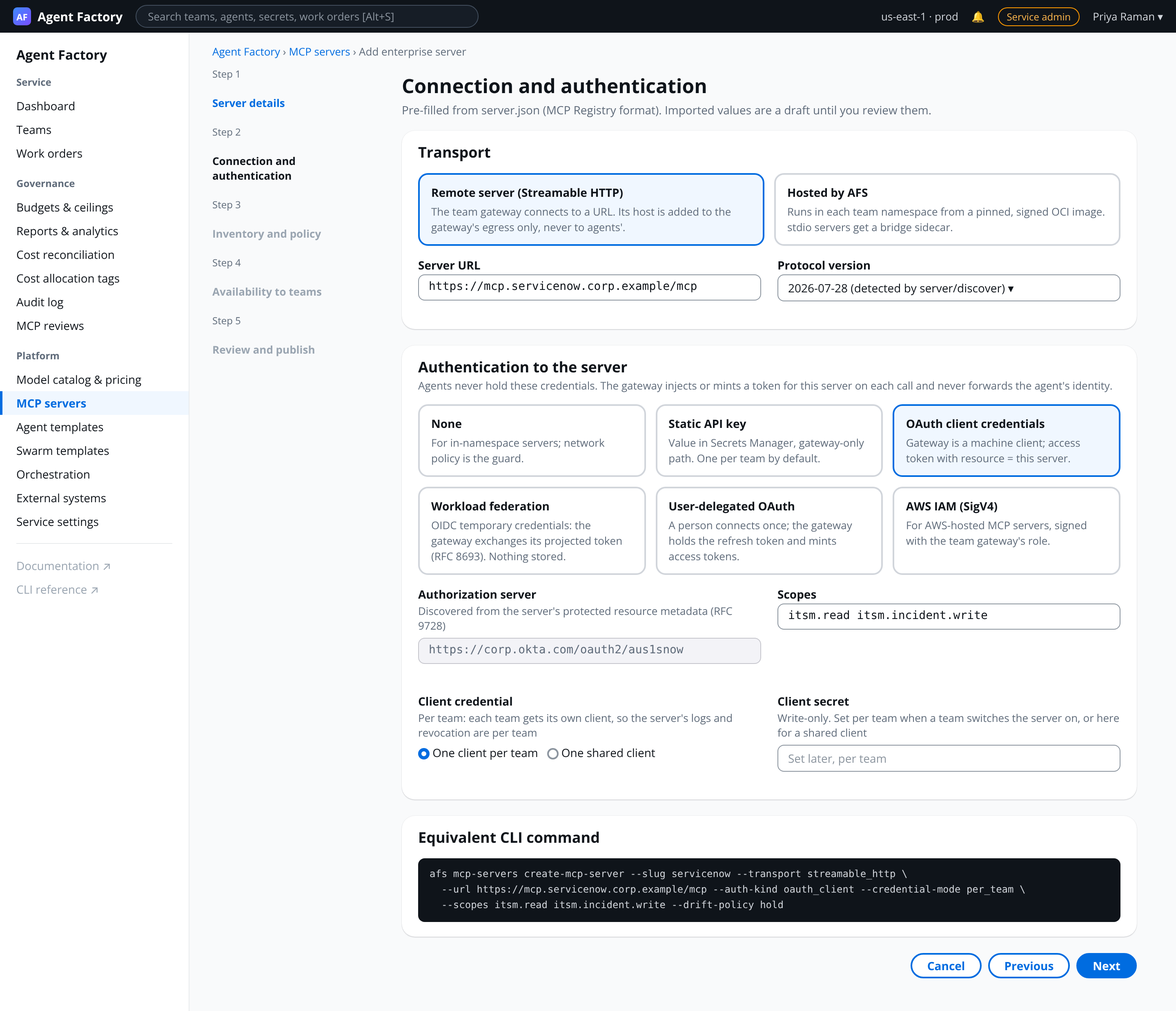
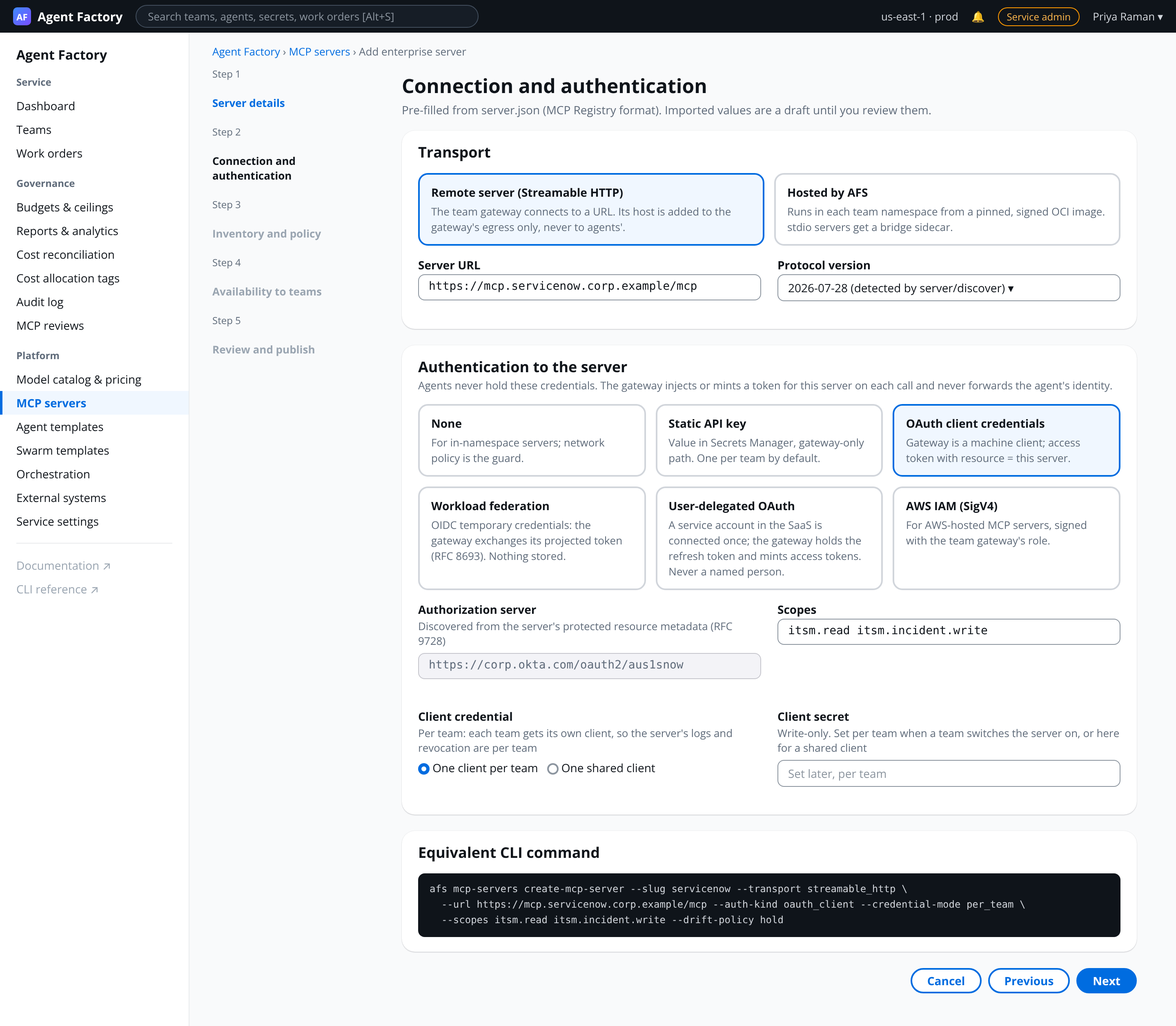
Record J's answers to the MCP gateway open questions
MCP ships in 1.3.0 on the 1.2.0 team gateway; enterprise servers opt-in with a
default-for-new-teams flag; team server approval is a three-level service policy
(team approves all by default); user-delegated OAuth uses service accounts only;
per-agent OIDC tokens ship with MCP; no content capture except an audited
query-text window; per-server drift setting. Mockups 48 and 49 updated.

Claude-Session: https://claude.ai/code/session_01ScLWHG5Qq2z3MiPnHXEhVF

diff --git a/docs/ui/source/49-so-mcp-review.html b/docs/ui/source/49-so-mcp-review.html
@@ -188,7 +188,7 @@ tr.sel td:first-child{box-shadow:inset 2px 0 0 var(--blue)}
 <div class="check"><span class="st ok"></span><span>Data classification Confidential ≤ team ceiling Confidential</span><span class="r muted">passed</span></div>
 <div class="check"><span class="st ok"></span><span>Credential: static API key, stored at the gateway-only path; agents cannot read it</span><span class="r muted">passed</span></div>
 </div></div>
-<div class="card"><div class="ch"><h2>Why elevated</h2></div><div class="cb small">External host and open-world tools need a security operator or service admin (team-admins approve only low-risk servers). Approving publishes it to <b>claims-modernization only</b>; it is proxied, pinned and logged like enterprise servers.</div></div>
+<div class="card"><div class="ch"><h2>Why elevated</h2></div><div class="cb small">Service approval policy: <b>team approves low, security approves higher</b> (set by service admins; the default lets teams approve all tiers). External host and open-world tools make this elevated, so it needs a security operator or service admin. Approving publishes it to <b>claims-modernization only</b>; it is proxied, pinned and logged like enterprise servers.</div></div>
 </div><div style="flex:1;min-width:0">
 <div class="card"><div class="ch"><h2>Inventory <span class="cnt">(9)</span></h2></div>
 <table><tr><th>Name</th><th>Kind</th><th>Annotations</th><th>Decision</th></tr>

diff --git a/docs/ui/source/48-admin-add-mcp-server.html b/docs/ui/source/48-admin-add-mcp-server.html
@@ -194,7 +194,7 @@ tr.sel td:first-child{box-shadow:inset 2px 0 0 var(--blue)}
 <div class="tile"><b>Static API key</b><span>Value in Secrets Manager, gateway-only path. One per team by default.</span></div>
 <div class="tile on"><b>OAuth client credentials</b><span>Gateway is a machine client; access token with resource = this server.</span></div>
 <div class="tile"><b>Workload federation</b><span>OIDC temporary credentials: the gateway exchanges its projected token (RFC 8693). Nothing stored.</span></div>
-<div class="tile"><b>User-delegated OAuth</b><span>A person connects once; the gateway holds the refresh token and mints access tokens.</span></div>
+<div class="tile"><b>User-delegated OAuth</b><span>A service account in the SaaS is connected once; the gateway holds the refresh token and mints access tokens. Never a named person.</span></div>
 <div class="tile"><b>AWS IAM (SigV4)</b><span>For AWS-hosted MCP servers, signed with the team gateway's role.</span></div></div>
 <div class="grid g2" style="margin-top:14px">
 <div class="field"><label>Authorization server</label><div class="hint">Discovered from the server's protected resource metadata (RFC 9728)</div><div class="input ro mono">https://corp.okta.com/oauth2/aus1snow</div></div>

diff --git a/docs/ui/source/mcp_screens.py b/docs/ui/source/mcp_screens.py
@@ -183,7 +183,7 @@ mpage("48-admin-add-mcp-server", "admin", mcp_admin_nav("mcp"), f"""
 <div class="tile"><b>Static API key</b><span>Value in Secrets Manager, gateway-only path. One per team by default.</span></div>
 <div class="tile on"><b>OAuth client credentials</b><span>Gateway is a machine client; access token with resource = this server.</span></div>
 <div class="tile"><b>Workload federation</b><span>OIDC temporary credentials: the gateway exchanges its projected token (RFC 8693). Nothing stored.</span></div>
-<div class="tile"><b>User-delegated OAuth</b><span>A person connects once; the gateway holds the refresh token and mints access tokens.</span></div>
+<div class="tile"><b>User-delegated OAuth</b><span>A service account in the SaaS is connected once; the gateway holds the refresh token and mints access tokens. Never a named person.</span></div>
 <div class="tile"><b>AWS IAM (SigV4)</b><span>For AWS-hosted MCP servers, signed with the team gateway's role.</span></div></div>
 <div class="grid g2" style="margin-top:14px">
 <div class="field"><label>Authorization server</label><div class="hint">Discovered from the server's protected resource metadata (RFC 9728)</div><div class="input ro mono">https://corp.okta.com/oauth2/aus1snow</div></div>
@@ -214,7 +214,7 @@ mpage("49-so-mcp-review", "so2", mcp_admin_nav("mcpreview"), f"""
 <div class="check">{st('ok','')}<span>Data classification Confidential ≤ team ceiling Confidential</span><span class="r muted">passed</span></div>
 <div class="check">{st('ok','')}<span>Credential: static API key, stored at the gateway-only path; agents cannot read it</span><span class="r muted">passed</span></div>
 </div></div>
-<div class="card"><div class="ch"><h2>Why elevated</h2></div><div class="cb small">External host and open-world tools need a security operator or service admin (team-admins approve only low-risk servers). Approving publishes it to <b>claims-modernization only</b>; it is proxied, pinned and logged like enterprise servers.</div></div>
+<div class="card"><div class="ch"><h2>Why elevated</h2></div><div class="cb small">Service approval policy: <b>team approves low, security approves higher</b> (set by service admins; the default lets teams approve all tiers). External host and open-world tools make this elevated, so it needs a security operator or service admin. Approving publishes it to <b>claims-modernization only</b>; it is proxied, pinned and logged like enterprise servers.</div></div>
 </div><div style="flex:1;min-width:0">
 <div class="card"><div class="ch"><h2>Inventory <span class="cnt">(9)</span></h2></div>
 <table><tr><th>Name</th><th>Kind</th><th>Annotations</th><th>Decision</th></tr>

diff --git a/mcp-gateway-PRD.md b/mcp-gateway-PRD.md
@@ -2,7 +2,7 @@
 
 | | |
 |---|---|
-| **Status** | **Proposed, for J's review (2026-11-24).** Design proposal only: nothing here is built, and no contract, schema or release changes until J approves. Release 1.1.0 is not changed by this document. Target release if approved: the same release as the [team model gateway proposal](https://github.com/stainedhead/enterprise-agent-factory-service/pull/24) (1.2.0), or the one after it |
+| **Status** | **Decisions answered by J (2026-11-24/25), section 14.3.** Design document: nothing is built, and contracts and schema change only when J approves implementation. Release 1.1.0 is not changed. **Target release 1.3.0** in every repository (`-db` and `-restapi` in lockstep), after the team gateway and model routes of [PR #24](https://github.com/stainedhead/enterprise-agent-factory-service/pull/24) ship in 1.2.0 (MCP-OQ-17) |
 | **Kind** | Change PRD to the [initial PRD](enterprise-agent-factory-service-initial-PRD.md) (EXT-1..7, TEAM-3, SEC-6, RPT), the [team orchestration agent PRD](team-orchestration-agent-PRD.md) and the [gateway contract](docs/contracts/gateway-contract.md) v1.1.0. **Depends on** the per-namespace team gateway proposed in root PR #24 (`model-endpoint-gateway-PRD.md`, decision MEG-D1) |
 | **Author** | J (Enterprise Architecture), drafted with Claude |
 | **Jira** | N/A |
@@ -213,7 +213,7 @@ are refused if called by name.
 - Refreshed on `subscriptions/listen` list-changed notifications (2026-07-28 servers), `notifications/*/list_changed`
   (2025-11-25 servers), the upstream `ttlMs`, and at most every 15 minutes otherwise. A changed definition follows the
   pinning rules of §7.4 before it is searchable.
-- Ranking in 1.2.0: BM25 over name, title, description and parameter names, with a per-server boost from the agent's
+- Ranking in 1.3.0: BM25 over name, title, description and parameter names, with a per-server boost from the agent's
   own recent use. Embedding search (through a model route, metered like any call) is MCP-OQ-6.
 - If a server ever offers a standard search or manifest capability, the gateway uses it to refresh and to check its
   index; agents still see the same meta-tools. When the Progressive Disclosure WG publishes a reference extension, the
@@ -286,7 +286,7 @@ Allowed only where a service admin sets `teams.may_add_mcp_servers` (default off
 | Register | Team-admin gives slug, owner, purpose, documentation, data classification, transport, location, URL or image, auth kind |
 | Automatic checks | Reachability and protocol version; TLS; host against the service's **MCP host deny list** and allowed corporate domains; inventory of primitives with digests; static checks of descriptions for injection patterns (instructions to the model, hidden Unicode, references to other servers' tools, requests for credentials); hosted images: signature, digest pin, vulnerability scan |
 | Risk tier | `low`: in-namespace or corporate host, no `destructive` tools, no credentials beyond the team's own. `elevated`: external host, `destructive` or `open_world` tools, or user-delegated OAuth. `high`: a check failed, or the data classification is above the team's ceiling |
-| Approval | `low`: team-admin approves (recorded). `elevated` and `high`: a security operator or service admin approves (MCP-OQ-4) |
+| Approval | A service-wide policy `mcp.team_server_approval`, set by service admins to fit the organisation (J, MCP-OQ-4): **`team_all` (default)**: team-admins approve every tier; `team_low_security_higher`: team-admins approve `low`, a security operator or service admin approves `elevated` and `high`; `security_all`: a security operator or service admin approves every team server. Every approval is in `audit_log` and visible to security operators whatever the level |
 | Running | Same proxying, policy, pinning, telemetry and reports as enterprise servers; the server shows *Team-managed* everywhere |
 | Promotion | A service admin may promote a team server to the enterprise catalog (it becomes a service server, the team keeps it on) |
 
@@ -306,7 +306,7 @@ identity it holds. What cannot pass the gateway is traffic that does not go thro
 | 2 | **Static API key or bearer** | Secrets Manager `<prefix>/<namespace>/_gateway/mcp/<server>` (team) or `<prefix>/_service/gateway/mcp/<server>` (shared), projected only into the gateway pod (MEG-D7). Per-team keys are the default for service servers | Yes, injected per call |
 | 3 | **OAuth client credentials** (the server trusts a machine client) | Client secret in Secrets Manager, or none when the client authenticates with a signed assertion (case 4) | Yes. The gateway gets an access token with RFC 8707 `resource` = the server's canonical URI, caches it until expiry, refreshes it |
 | 4 | **Workload identity federation / RFC 8693 token exchange** (OIDC temporary credentials) | **Nothing stored.** The team gateway has its own projected ServiceAccount token (an OIDC JWT issued by the cluster's OIDC issuer, audience per target, lifetime ≤ 1 h, rotated by the kubelet). The gateway presents it to the target's authorization server (as `subject_token` in an RFC 8693 exchange, or as a `client_assertion` / federated credential) and receives a short-lived access token scoped to that server | **Yes**, if the target's authorization server trusts the cluster's OIDC issuer (or the enterprise IdP that federates it). Examples: Entra ID workload identity federation, Okta workload federation, GitHub App via a token broker, Google workload identity, AWS `AssumeRoleWithWebIdentity` / SigV4 for AWS-hosted MCP servers (with the team gateway's Pod Identity role). The token is minted per server and team, held in memory, never written |
-| 5 | **User-delegated OAuth** (the server acts as a person: Atlassian, Google, Microsoft 365) | The refresh token, in Secrets Manager at the gateway-only path, one per (team or agent, server) | Yes, with a consent step: a team-admin clicks *Connect* in the console, completes the authorization code + PKCE flow with the server's authorization server (discovered by RFC 9728; client identified by an AFS Client ID Metadata Document per environment; `iss` validated), and the gateway stores the refresh token and mints access tokens per call. Whose authority the agent uses (a named person versus a service account in that SaaS) is a governance choice per server (MCP-OQ-8). Refresh-token expiry or revocation shows as condition `McpAuthExpired` with a reconnect action |
+| 5 | **User-delegated OAuth** (the server acts as an account in the SaaS: Atlassian, Google, Microsoft 365; a service account only, MCP-OQ-8) | The refresh token, in Secrets Manager at the gateway-only path, one per (team or agent, server) | Yes, with a consent step: a team-admin clicks *Connect* in the console, completes the authorization code + PKCE flow with the server's authorization server (discovered by RFC 9728; client identified by an AFS Client ID Metadata Document per environment; `iss` validated), and the gateway stores the refresh token and mints access tokens per call. The connected account must be a **service account** in that SaaS: agents never act as a named person (J, MCP-OQ-8). A server whose SaaS offers no service account cannot use this kind. Refresh-token expiry or revocation shows as condition `McpAuthExpired` with a reconnect action |
 | 6 | **Direct calls by agents' own CLIs and SDKs** (`aws`, `gh`, `kubectl`, a vendor SDK) that do not use MCP or a route | Inside the agent pod: Pod Identity (AWS), a projected SA token with an audience per target that the CLI exchanges itself (a credential helper or `AWS_WEB_IDENTITY_TOKEN_FILE`-style variable), or an agent secret (ADR-006) | **No, by design.** The gateway never sees these calls. AFS gives them identity (projected tokens per audience, rendered by the reconciler) and network control (per-agent Cilium FQDN egress, EXT-5), and visibility only from Cilium flow logs (connections, bytes, denied attempts, RPT). No tool-level telemetry is possible without routing the traffic through a proxy |
 
 Rules that apply to cases 2–5:
@@ -427,7 +427,7 @@ goes through the metered model gateway as usual. URL-mode elicitation for OAuth 
 
 ## 13. Impact by layer
 
-### 13.1 Gateway contract (v1.2.0 or v1.3.0, minor)
+### 13.1 Gateway contract (v1.3.0, minor)
 
 New `/mcp` and `/mcp/<server>` endpoints, meta-tools, refusal reasons, `AFS_MCP_*` variables and `/etc/afs/mcp.json`.
 
@@ -438,7 +438,7 @@ New `/mcp` and `/mcp/<server>` endpoints, meta-tools, refusal reasons, `AFS_MCP_
 | `AFS_MCP_<SERVER>_URL` | Per server, slug upper-snake |
 | `/etc/afs/mcp.json` | `{"version":1,"aggregated":{"url":"…","mode":"search"},"servers":[{"name":"github","url":"…","kind":"enterprise","readOnly":false}],"mcpServers":{"afs":{"type":"http","url":"…"}}}`: the `mcpServers` block is the shape many MCP hosts read, so a runtime can point at the file without code |
 
-### 13.2 `-db` (next migration after PR #24's 000023)
+### 13.2 `-db` (release 1.3.0, next migration after PR #24's)
 
 | Table | Key columns | Notes |
 |---|---|---|
@@ -464,7 +464,7 @@ inserts `mcp_events`), isolation tests and `seedOtherTeams` rows.
   thin JSON-RPC layer (MCP-OQ-15).
 - `afs-reconciler`: hosted server Deployments and bridge, network policies, gateway egress to MCP hosts, federation
   token projections, `/etc/afs/mcp.json`, conditions (`McpServerReady`, `McpAuthExpired`, `McpDriftPending`).
-- `afs-api` (contract v1.5.0 or v1.6.0), about 24 operations: `List/Get/Create/Update/DeleteMcpServer` (service and team
+- `afs-api` (next minor contract version after PR #24's), about 24 operations: `List/Get/Create/Update/DeleteMcpServer` (service and team
   scope), `ImportMcpServerManifest`, `SubmitMcpServerForReview`, `ApproveMcpServer`, `RejectMcpServer`,
   `SuspendMcpServer`, `ListMcpPrimitives`, `ApproveMcpPrimitive`, `PutMcpPolicy`, `PutTeamMcpServers`,
   agent and pool `mcp` in the existing access body, `PutMcpServerCredential`, `StartMcpOAuthConnect` /
@@ -501,7 +501,7 @@ AccessDenied tests for each.
 |---|---|---|
 | MCP-D1 | MCP is a route type on the per-namespace team gateway; `gateway.mcp.placement` can split it into a second Deployment of the same image | One identity, egress and credential boundary per team; no new product (§5) |
 | MCP-D2 | Enterprise servers are opt-in per team; agents default to all of the team's enabled servers | J's "enable from the centralized list"; least privilege at the team boundary |
-| MCP-D3 | Team servers only where a service admin allows; risk-tiered review; same proxying and telemetry | J's team-managed servers, audited at system level (§8) |
+| MCP-D3 | Team servers only where a service admin allows; risk-tiered review under a service-admin-selected approval policy (default: team approves all); same proxying and telemetry | J's team-managed servers, audited at system level (§8) |
 | MCP-D4 | Tool, resource and prompt policy at each level; definitions pinned by digest; drift held for review | Server-level access is too coarse; tool definitions can change under the agent (§7) |
 | MCP-D5 | Search through gateway meta-tools on an aggregated endpoint, default for agents; full listing available | The spec has no search yet (§3.1); this works with every client and maps to a future extension |
 | MCP-D6 | Credential kinds: none, static, OAuth client, workload federation (RFC 8693, nothing stored), user-delegated OAuth (refresh token held by the gateway), SigV4; never token passthrough | Covers OIDC temporary credentials without storing them (§9) |
@@ -521,27 +521,29 @@ AccessDenied tests for each.
 | Teams run MCP servers inside agent images to avoid governance | Agent egress still limits reach; agent-local servers are listed as such; policy can forbid MCP hosts in agent egress |
 | Protocol churn (four versions in two years) | Two versions per side, conformance suite with recorded fixtures |
 
-### 14.3 Open questions for J
+### 14.3 Open questions and J's answers
 
-| # | Question | Recommended answer |
-|---|---|---|
-| MCP-OQ-1 | MCP as a route type on the team gateway (PR #24), or a separate MCP gateway? | Route type, with `placement` to split per team (MCP-D1). If PR #24's per-namespace gateway is not approved, still per namespace |
-| MCP-OQ-2 | Build in `afs-gateway`, or adopt an MCP-native gateway as the data plane? | Build; reassess agentgateway as a data plane only if protocol churn makes upkeep too costly |
-| MCP-OQ-3 | Enterprise servers opt-in per team, or join *All* like models? | Opt-in, with an optional *default for new teams* flag per server |
-| MCP-OQ-4 | Who approves `elevated` and `high` team servers? | Security operators or service admins; `low` by team-admins |
-| MCP-OQ-5 | On description-only drift with a compatible schema, keep serving the old approved definition, or hold the tool? | Hold for enterprise servers set to `hold`; keep the old one callable for team servers until a team-admin decides |
-| MCP-OQ-6 | Embedding search in 1.2.0? | No; BM25 first, embeddings through a metered model route later |
-| MCP-OQ-7 | Adopt the Progressive Disclosure WG's reference extension when published? | Yes, beside the meta-tools |
-| MCP-OQ-8 | User-delegated OAuth: whose account do agents act as (a named person, or a service account in that SaaS)? Allow URL elicitation to become a *Connect* request? | Service accounts where the SaaS has them; named-person delegation only on `elevated` review with the person's consent recorded; yes to the *Connect* request |
-| MCP-OQ-9 | Any content capture (arguments, results, search queries) for audit? | No by default; time-boxed query-text capture for tuning by service admins; argument hashes optional per server |
-| MCP-OQ-10 | Offer per-agent federated identity (projected OIDC tokens per audience) for agents' own CLIs and SDKs (§9 case 6) in the same release? | Yes; small, independent, useful beyond MCP |
-| MCP-OQ-11 | Serve AFS's catalog through the MCP Registry API as a private registry for runtimes that read registries? | Later; import `server.json` now |
-| MCP-OQ-12 | Which upstream protocol versions? | 2026-07-28 and 2025-11-25; older Streamable HTTP versions only on demand |
-| MCP-OQ-13 | Hosted stdio servers: per team or per agent by default? | Per team; per agent when the server keeps caller state |
-| MCP-OQ-14 | Resource URIs in the ledger: full URI, template, or prefix? | Template when known, else scheme + host + first path segment |
-| MCP-OQ-15 | Recheck spec, SDK and product facts (§3, §5.2, §11.2, EMA extension) before contracts | Yes, at contract time |
-| MCP-OQ-16 | Does the orchestration agent (Hermes with Paperclip AI or Buzz) get MCP like any agent? Buzz's ACP agents use MCP tools today | Yes, same MCP tab; Buzz-connected workers point their MCP config at `/etc/afs/mcp.json` |
-| MCP-OQ-17 | Ship MCP in the same release as model routes (1.2.0) or the next? | Same release if PR #24 is approved, built after the team gateway lands |
+All answered. Cards were tapped by J in the project thread; MCP-OQ-4 was answered in words; MCP-OQ-6, 7 and 11 to 16 were accepted together.
+
+| # | Question | Recommended | J's answer (2026-11-24/25) |
+|---|---|---|---|
+| MCP-OQ-1 | MCP as a route type on the team gateway (PR #24), or a separate MCP gateway? | Route type, with `placement` to split per team (MCP-D1). If PR #24's per-namespace gateway is not approved, still per namespace | **Route type on the team gateway** (card) |
+| MCP-OQ-2 | Build in `afs-gateway`, or adopt an MCP-native gateway as the data plane? | Build; reassess agentgateway as a data plane only if protocol churn makes upkeep too costly | **Build in `afs-gateway`** (the adopt option was declined on the OQ-1 card) |
+| MCP-OQ-3 | Enterprise servers opt-in per team, or join *All* like models? | Opt-in, with an optional *default for new teams* flag per server | **Opt-in, with a *default for new teams* flag** per server (card) |
+| MCP-OQ-4 | Who approves `elevated` and `high` team servers? | Security operators or service admins; `low` by team-admins | **Three-level policy chosen by service admins; `team_all` is the default** (in words): see §8 |
+| MCP-OQ-5 | On description-only drift with a compatible schema, keep serving the old approved definition, or hold the tool? | Hold for enterprise servers set to `hold`; keep the old one callable for team servers until a team-admin decides | **Per-server drift setting**; team servers keep serving the approved definition until a team-admin decides (card) |
+| MCP-OQ-6 | Embedding search in 1.2.0? | No; BM25 first, embeddings through a metered model route later | No; BM25 first (accepted) |
+| MCP-OQ-7 | Adopt the Progressive Disclosure WG's reference extension when published? | Yes, beside the meta-tools | Yes, beside the meta-tools (accepted) |
+| MCP-OQ-8 | User-delegated OAuth: whose account do agents act as (a named person, or a service account in that SaaS)? Allow URL elicitation to become a *Connect* request? | Service accounts where the SaaS has them; named-person delegation only on `elevated` review with the person's consent recorded; yes to the *Connect* request | **Service accounts only**: agents never act as a named person; servers whose SaaS has no service account cannot use user-delegated OAuth (card). URL elicitation for OAuth becomes a *Connect* request |
+| MCP-OQ-9 | Any content capture (arguments, results, search queries) for audit? | No by default; time-boxed query-text capture for tuning by service admins; argument hashes optional per server | **No content**; time-boxed, audited query-text capture for tuning; argument hashes optional per server (card) |
+| MCP-OQ-10 | Offer per-agent federated identity (projected OIDC tokens per audience) for agents' own CLIs and SDKs (§9 case 6) in the same release? | Yes; small, independent, useful beyond MCP | **Yes, in the same release** (card) |
+| MCP-OQ-11 | Serve AFS's catalog through the MCP Registry API as a private registry for runtimes that read registries? | Later; import `server.json` now | Later; import `server.json` now (accepted) |
+| MCP-OQ-12 | Which upstream protocol versions? | 2026-07-28 and 2025-11-25; older Streamable HTTP versions only on demand | 2026-07-28 and 2025-11-25 (accepted) |
+| MCP-OQ-13 | Hosted stdio servers: per team or per agent by default? | Per team; per agent when the server keeps caller state | Per team; per agent when the server keeps caller state (accepted) |
+| MCP-OQ-14 | Resource URIs in the ledger: full URI, template, or prefix? | Template when known, else scheme + host + first path segment | Template when known, else scheme + host + first path segment (accepted) |
+| MCP-OQ-15 | Recheck spec, SDK and product facts (§3, §5.2, §11.2, EMA extension) before contracts | Yes, at contract time | Yes, at contract time (accepted) |
+| MCP-OQ-16 | Does the orchestration agent (Hermes with Paperclip AI or Buzz) get MCP like any agent? Buzz's ACP agents use MCP tools today | Yes, same MCP tab; Buzz-connected workers point their MCP config at `/etc/afs/mcp.json` | Yes, same MCP tab (accepted) |
+| MCP-OQ-17 | Ship MCP in the same release as model routes (1.2.0) or the next? | Same release if PR #24 is approved, built after the team gateway lands | **Next release, 1.3.0** (card) |
 
 ## 15. User stories and acceptance criteria
 
@@ -604,8 +606,11 @@ with the same proxying and audit as enterprise servers.
   console disables the button with "Requires service admin permission for this team".
 - **AC-4.2** Given a registration, when automatic checks finish, then a risk tier (`low`, `elevated`, `high`) is
   assigned with the reason for each check.
-- **AC-4.3** Given risk `low`, when I approve, then the server is available to my team only and the approval is
-  audited. Given `elevated` or `high`, then only a security operator or service admin can approve.
+- **AC-4.3** Given the service policy `team_all` (default), when I approve a server of any tier, then it is available
+  to my team only and the approval is audited. Given `team_low_security_higher`, only `low` is approvable by me; given
+  `security_all`, none is; in both cases the others need a security operator or service admin.
+- **AC-4.6** Given I am a service admin, when I change `mcp.team_server_approval`, then the change is audited and applies
+  to reviews still pending; servers already approved stay approved.
 - **AC-4.4** Given an approved team server, when any agent calls it, then the call is in `mcp_events` and the
   service-wide MCP report with kind *Team-managed*.
 - **AC-4.5** Given a slug already used by an enterprise server, when I register, then it is refused.
@@ -726,7 +731,8 @@ Playwright), **cli** (goldens and httptest), **e2e** (kind or EKS cluster). Each
 | TC-13 | ui | Switch on a per-team-credential server | Credential prompt; status `Credential required` until set | 3.4 |
 | TC-14 | api, ui | Register with `may_add_mcp_servers = false` | API 403; button disabled with tooltip | 4.1 |
 | TC-15 | gw | Registration of external host with open-world tools | Risk `elevated`, reasons listed | 4.2 |
-| TC-16 | api | TA approves low; TA approves elevated; SO approves elevated | 200; 403; 200 | 4.3 |
+| TC-16 | api | Under each of the three approval policies: TA approves low, TA approves elevated, SO approves elevated | `team_all`: 200, 200, 200; `team_low_security_higher`: 200, 403, 200; `security_all`: 403, 403, 200 | 4.3 |
+| TC-16a | api | SA changes approval policy; TA, TV, SO try the same | SA 200 + audit row; others 403; pending reviews follow the new policy | 4.6 |
 | TC-17 | db | Team server rows | RLS: invisible and unwritable from another team (`seedOtherTeams` rows added) | 4.3, 9.3 |
 | TC-18 | gw | Call to approved team server | `mcp_events` row with kind `team`; appears in service report | 4.4 |
 | TC-19 | api | Team server slug equals enterprise slug | 409 / validation error | 4.5 |
@@ -810,3 +816,4 @@ AWS-console style, from `docs/ui/source/mcp_screens.py` (run by `gen.py`, render
 - 2026-11-24: J asked about OIDC temporary credentials for MCP servers and for agents' own CLIs; section 9 answers it
   (cases 4 and 6, MCP-D6, MCP-OQ-10).
 - 2026-11-24: J asked for UI, use cases and test cases to review; sections 15 to 17 and mockups 46 to 55 added.
+- 2026-11-25: J answered all open questions (section 14.3). MCP moves to release 1.3.0; team server approval becomes a three-level service policy with team approval by default; user-delegated OAuth uses service accounts only; per-agent OIDC tokens ship with MCP.
